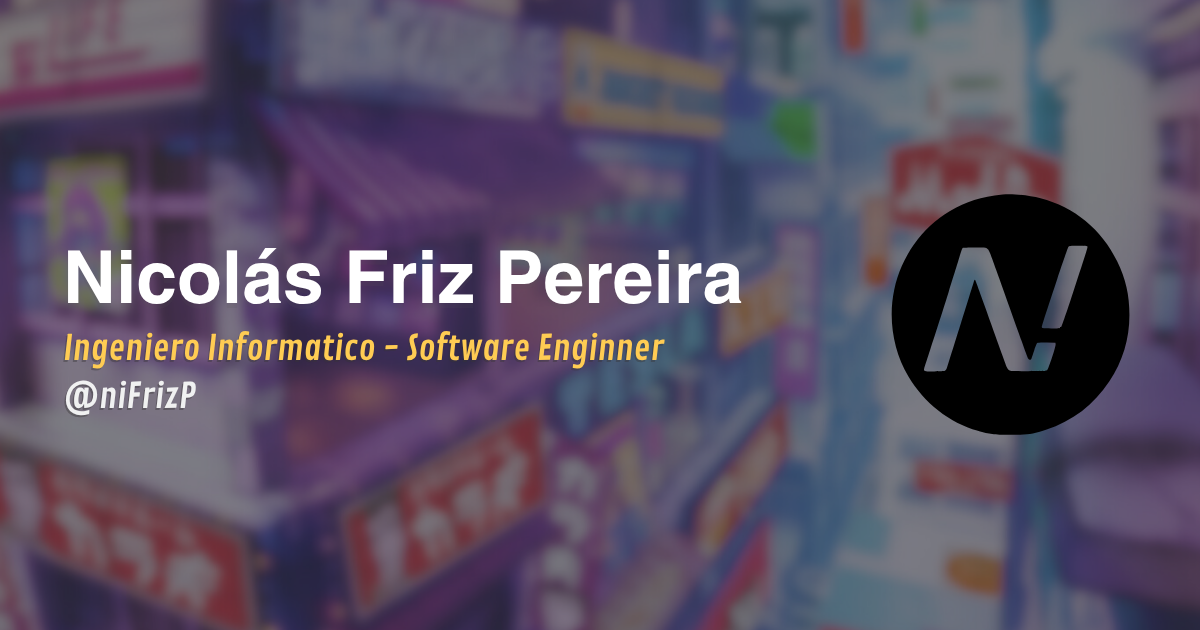
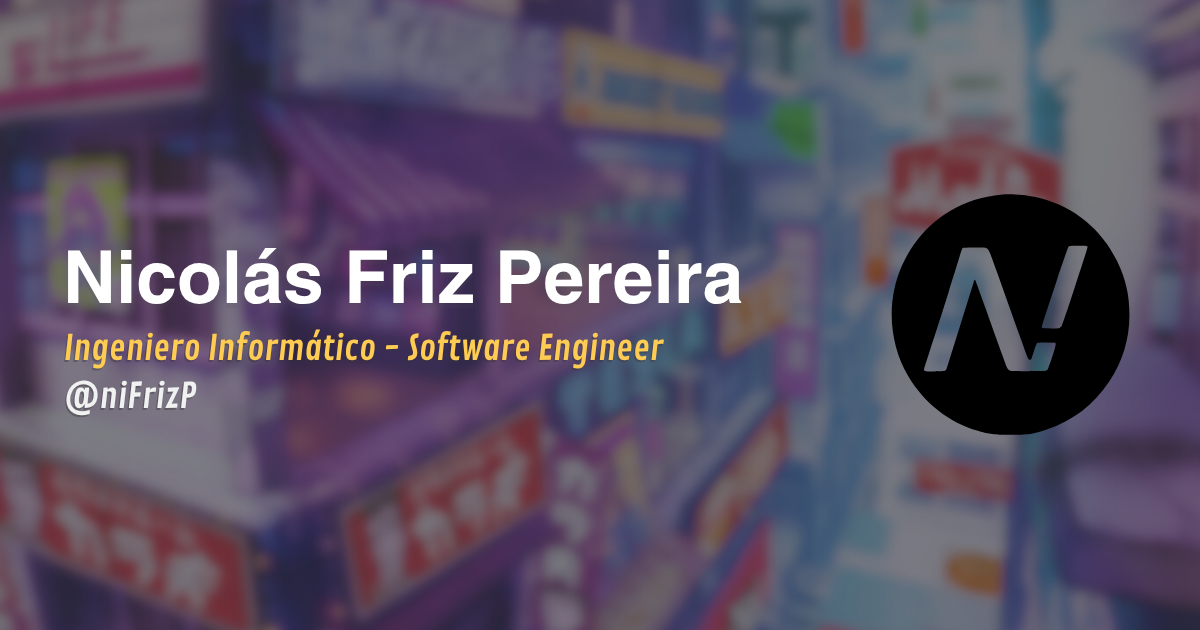
fix: corregir errores tipográficos en la descripción del portafolio y OpenGraph

Changed region(s): [[0.0617, 0.5127, 0.3083, 0.573], [0.3392, 0.5429, 0.555, 0.573], [0.0617, 0.6032, 0.1542, 0.6635]]

diff --git a/src/app/layout.tsx b/src/app/layout.tsx
@@ -9,12 +9,12 @@ import { icons } from "lucide-react";
 export const metadata: Metadata = {
   metadataBase: new URL("https://nifrizp.github.io"),
   title: "niFrizP - Portafolio",
-  description: "Ingeniero Informatico",
+  description: "Ingeniero Informático",
   openGraph: {
     type: "website",
     url: "/",
     title: "niFrizP - Portafolio",
-    description: "Ingeniero Informatico",
+    description: "Ingeniero Informático",
     images: [
       {
         url: "/og.png",
@@ -27,7 +27,7 @@ export const metadata: Metadata = {
   twitter: {
     card: "summary_large_image",
     title: "niFrizP - Portafolio",
-    description: "Ingeniero Informatico",
+    description: "Ingeniero Informático",
     images: ["/og.png"],
   },
   icons: {
